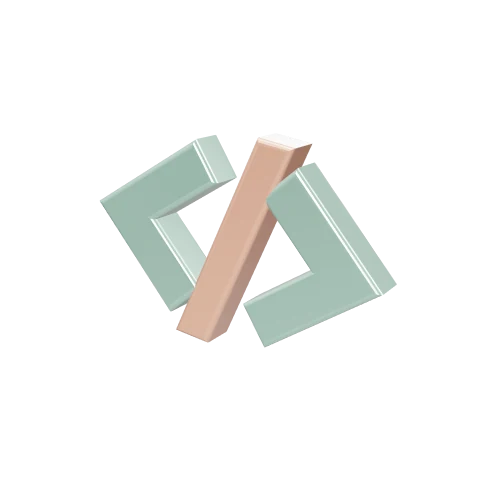
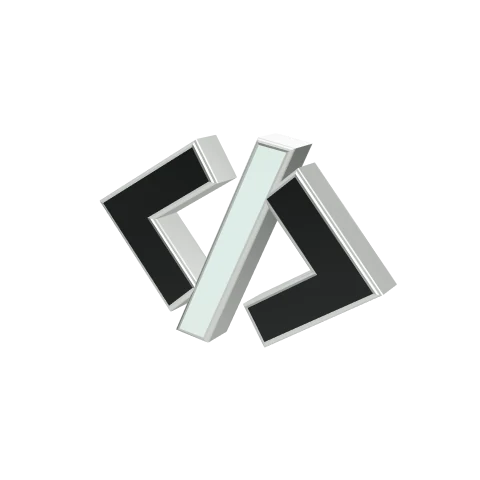
feat(site): give the code glyph the studio palette
Charcoal faces, silver bevels and a mint slash, matching the terminal,
phone, database and server.

Changed region(s): [[0.2188, 0.2812, 0.7812, 0.7188]]

diff --git a/apps/site/lib/studio-scene.ts b/apps/site/lib/studio-scene.ts
@@ -59,18 +59,6 @@ function createMaterials() {
       roughness: 0.25,
       clearcoat: 1,
     }),
-    sage: new THREE.MeshPhysicalMaterial({
-      color: 0x8fb5a4,
-      metalness: 0.72,
-      roughness: 0.3,
-      clearcoat: 0.8,
-    }),
-    peach: new THREE.MeshPhysicalMaterial({
-      color: 0xd49a82,
-      metalness: 0.65,
-      roughness: 0.28,
-      clearcoat: 0.8,
-    }),
   };
 }
 
@@ -89,7 +77,10 @@ function rounded(
   );
 }
 
-function extruded(points: [number, number][], material: THREE.Material) {
+function extruded(
+  points: [number, number][],
+  material: THREE.Material | THREE.Material[],
+) {
   const shape = new THREE.Shape(
     points.map(([x, y]) => new THREE.Vector2(x, y)),
   );
@@ -135,7 +126,7 @@ function buildCode(body: THREE.Group, parts: Part[], materials: Materials) {
           [-1.2, 0],
           [-0.4, 0.7],
         ],
-        materials.sage,
+        [materials.charcoal, materials.silver],
       ),
       [-3, 1.4, -2],
       [0, -1.4, 0],
@@ -151,7 +142,7 @@ function buildCode(body: THREE.Group, parts: Part[], materials: Materials) {
           [0.7, -1.05],
           [1.9, 0],
         ],
-        materials.sage,
+        [materials.charcoal, materials.silver],
       ),
       [3, -1, 1.5],
       [0, 1.4, 0],
@@ -165,7 +156,7 @@ function buildCode(body: THREE.Group, parts: Part[], materials: Materials) {
           [-0.14, -1.3],
           [0.54, 1.3],
         ],
-        materials.peach,
+        [materials.mint, materials.silver],
       ),
       [0, 2.8, 2],
       [0, 0, 0.8],
